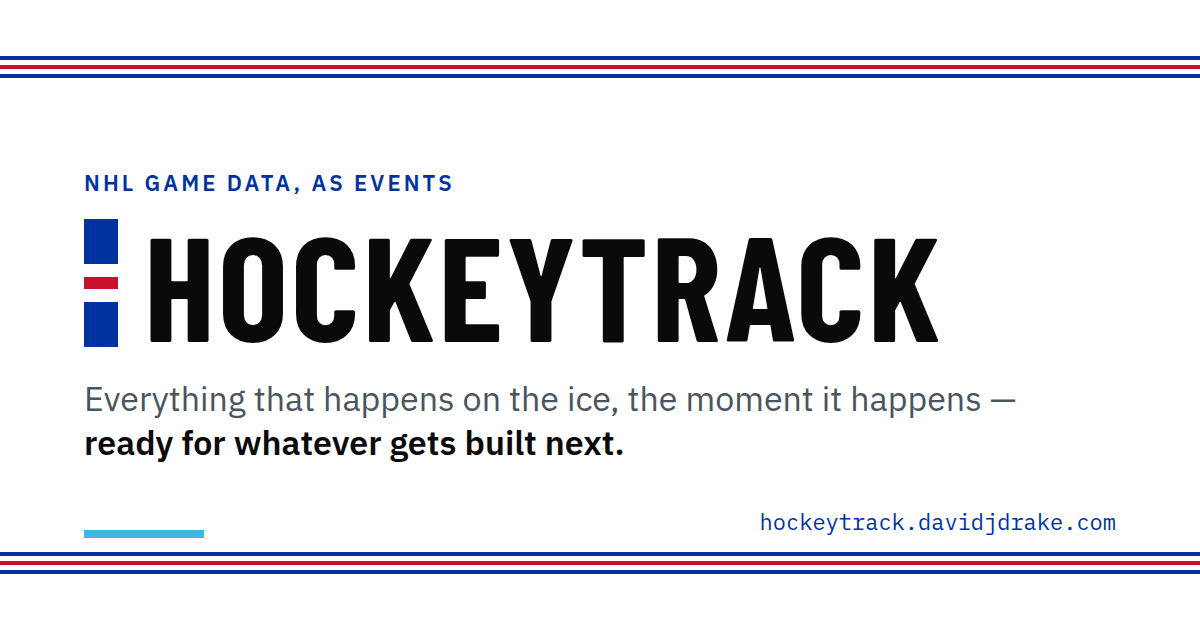
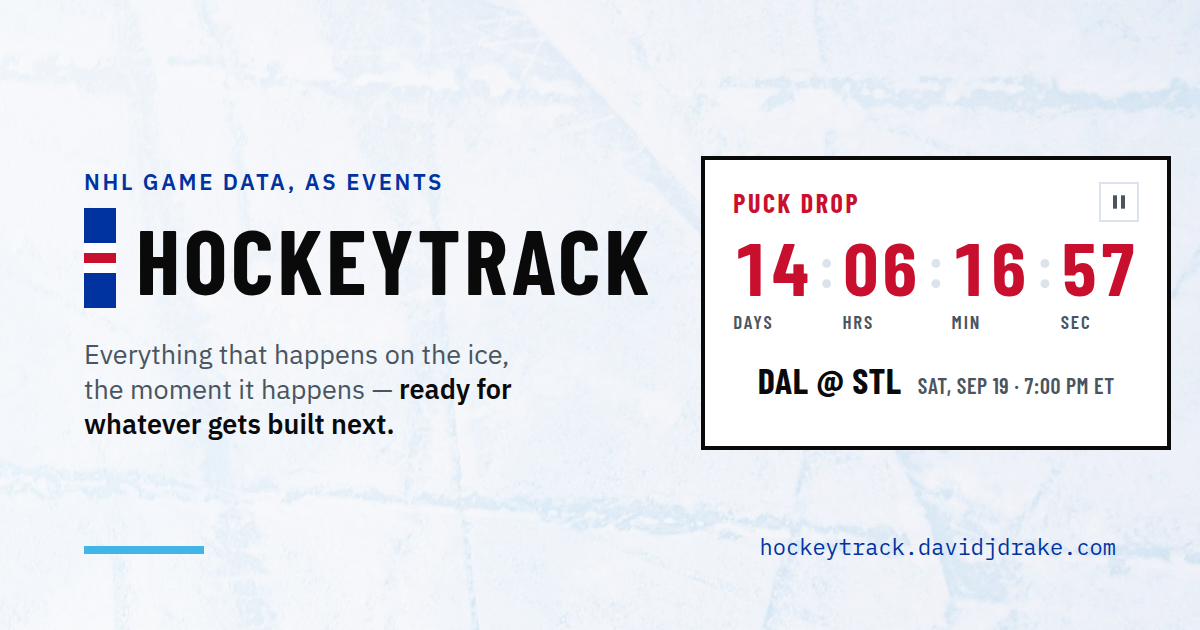
site: Open Graph card shows the puck-drop countdown on scraped ice
docs/og/home.html is the committed template; docs/og/render.sh (make og)
renders site/assets/og/home.png with headless Chrome, computing the
countdown and matchup from the live schedule document. Background is a
close-up of skate-scraped ice (Compagnons, Unsplash License) under a
white wash so the wordmark and scoreboard stay crisp.

Claude-Session: https://claude.ai/code/session_01R3fpAJqMohvzoqocKjKTdf

diff --git a/docs/og/home.html b/docs/og/home.html
@@ -1,0 +1,71 @@
+<!doctype html>
+<!-- Open Graph preview for the home page (1200x630). Rendered by `make og`
+     with headless Chrome; the countdown values arrive as query parameters
+     computed from the live schedule at render time. -->
+<html lang="en">
+<head>
+<meta charset="utf-8">
+<title>HockeyTrack OG</title>
+<link rel="stylesheet" href="/assets/site.css">
+<style>
+  html, body { width: 1200px; height: 630px; overflow: hidden; }
+  /* Skate-scraped ice: photo by Compagnons on Unsplash (Unsplash License),
+     cropped to docs/og/ice.jpg, under a white wash so the type stays crisp. */
+  body { position: relative; background: #F3F7FB url("/.og-ice.jpg") center / cover no-repeat; }
+  .wash { position: absolute; inset: 0; background: linear-gradient(90deg, rgba(255,255,255,0.78) 0%, rgba(255,255,255,0.62) 55%, rgba(255,255,255,0.50) 100%); }
+  .board, .page > div:first-child { position: relative; }
+  .page { position: absolute; left: 84px; right: 84px; top: 96px; bottom: 120px; display: grid; grid-template-columns: 1fr 470px; gap: 48px; align-items: center; }
+  .eyebrow { font-family: var(--body); font-weight: 600; font-size: 22px; letter-spacing: 0.12em; text-transform: uppercase; color: var(--blue); margin: 0 0 10px; }
+  .wordmark { font-size: 92px; letter-spacing: 0.04em; gap: 20px; line-height: 1; }
+  .wordmark::before { width: 32px; height: 100px; }
+  .tag { font-family: var(--body); font-size: 27px; line-height: 1.3; color: var(--muted); margin: 22px 0 0; max-width: 27ch; }
+  .tag b { color: var(--ink); font-weight: 600; }
+  .url { position: absolute; right: 84px; bottom: 72px; font-family: var(--mono); font-size: 22px; line-height: 1; color: var(--blue); }
+  .mark { position: absolute; left: 84px; bottom: 76px; width: 120px; height: 8px; background: var(--crease); }
+
+  .board { border: 4px solid var(--ink); padding: 22px 28px 24px; background: var(--ice); }
+  .head { display: flex; justify-content: space-between; align-items: center; margin-bottom: 8px; }
+  .head span { font-family: var(--display); font-weight: 700; font-size: 26px; letter-spacing: 0.1em; text-transform: uppercase; color: var(--red); }
+  .head i { display: inline-flex; align-items: center; justify-content: center; width: 40px; height: 40px; border: 2px solid var(--rule); color: var(--muted); }
+  .head i svg { fill: currentColor; }
+  .units { display: flex; align-items: flex-start; gap: 8px; }
+  .units span { font-family: var(--display); font-weight: 600; font-size: 19px; letter-spacing: 0.1em; text-transform: uppercase; color: var(--muted); }
+  .units b { display: block; font-family: var(--display); font-weight: 700; font-size: 74px; line-height: 1; color: var(--red); font-variant-numeric: tabular-nums; margin-bottom: 4px; min-width: 2ch; }
+  .units em { font-family: var(--display); font-style: normal; font-weight: 600; font-size: 62px; line-height: 1; color: var(--rule); margin-top: 2px; }
+  .match { display: flex; justify-content: center; align-items: baseline; gap: 16px; margin-top: 16px; font-family: var(--display); letter-spacing: 0.04em; text-transform: uppercase; }
+  .match strong { font-weight: 700; font-size: 36px; color: var(--ink); white-space: nowrap; }
+  .match span { font-weight: 600; font-size: 22px; color: var(--muted); white-space: nowrap; }
+</style>
+</head>
+<body>
+<div class="wash"></div>
+<div class="page">
+  <div>
+    <p class="eyebrow">NHL game data, as events</p>
+    <div class="wordmark">HOCKEYTRACK</div>
+    <p class="tag">Everything that happens on the ice, the moment it happens &mdash; <b>ready for whatever gets built next.</b></p>
+  </div>
+  <div class="board">
+    <div class="head">
+      <span>Puck drop</span>
+      <i><svg width="16" height="16" viewBox="0 0 12 12"><rect x="1.5" y="1" width="3" height="10"/><rect x="7.5" y="1" width="3" height="10"/></svg></i>
+    </div>
+    <div class="units">
+      <span><b id="d">14</b>days</span><em>:</em>
+      <span><b id="h">06</b>hrs</span><em>:</em>
+      <span><b id="m">25</b>min</span><em>:</em>
+      <span><b id="s">55</b>sec</span>
+    </div>
+    <p class="match"><strong id="match">DAL @ STL</strong><span id="when">Sat, Sep 19 &middot; 7:00 PM ET</span></p>
+  </div>
+</div>
+<div class="mark"></div>
+<div class="url">hockeytrack.davidjdrake.com</div>
+<script>
+  const q = new URLSearchParams(location.search);
+  for (const k of ["d", "h", "m", "s", "match", "when"]) {
+    if (q.has(k)) document.getElementById(k).textContent = q.get(k);
+  }
+</script>
+</body>
+</html>

diff --git a/README.md b/README.md
@@ -101,6 +101,7 @@ Cost is dominated by poller runtime: roughly **$0.05/game**, on the order of **$
 
   This is the primary end-to-end check when no live games are on.
 - AWS is always behind interfaces (`internal/store`, `internal/events`); logic tests run against fakes, no AWS or localstack required.
+- **Link previews** — `make og` re-renders the home page's Open Graph card (`site/assets/og/home.png`) from `docs/og/home.html` with the puck-drop countdown as of that moment. The ice photo is by Compagnons on Unsplash (Unsplash License).
 
 ### Backfilling history
 
